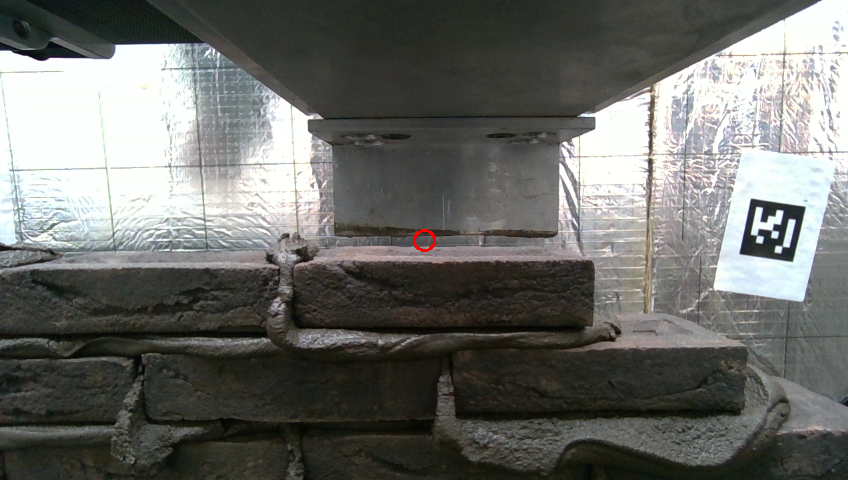
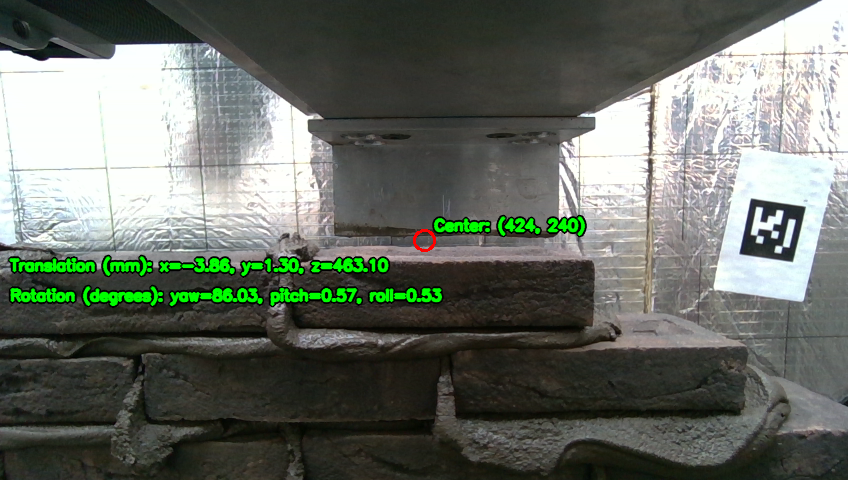
font

Changed region(s): [[0.0, 0.5312, 0.5212, 0.6562], [0.4906, 0.4375, 0.7052, 0.5]]

diff --git a/image_processing/image_processing.py b/image_processing/image_processing.py
@@ -57,7 +57,6 @@ def detect_brick_in_center(depth_image):
     
     print("No suitable contour found.")
     return None, (center_x, center_y)
-
 def draw_brick_boundaries(image, contour, center, translation, rotation):
     # Draw the contour if available
     if contour is not None:
@@ -65,18 +64,22 @@ def draw_brick_boundaries(image, contour, center, translation, rotation):
         x, y, w, h = cv2.boundingRect(contour)
         cv2.rectangle(image, (x, y), (x + w, y + h), (255, 0, 0), 2)
 
-    # Always mark the center and display coordinates
+    # Mark the center and display coordinates
     cv2.circle(image, center, 5, (0, 0, 255), -1)
     center_coords = f"Center: ({center[0]}, {center[1]})"
+    # Draw text with black outline and green fill
     cv2.putText(image, center_coords, (center[0] + 10, center[1] - 10), 
-                cv2.FONT_HERSHEY_SIMPLEX, 0.5, (255, 255, 255), 1, cv2.LINE_AA)
+                cv2.FONT_HERSHEY_SIMPLEX, 0.9, (0, 0, 0), 5, cv2.LINE_AA)
+    cv2.putText(image, center_coords, (center[0] + 10, center[1] - 10), 
+                cv2.FONT_HERSHEY_SIMPLEX, 0.9, (0, 255, 0), 2, cv2.LINE_AA)
 
     # Display 3D Pose Information
     pose_text = (f"Translation (mm): x={translation[0]:.2f}, y={translation[1]:.2f}, z={translation[2]:.2f}\n"
                  f"Rotation (degrees): yaw={rotation['yaw']:.2f}, pitch={rotation['pitch']:.2f}, roll={rotation['roll']:.2f}")
-    y_offset = center[1] + 20
+    y_offset = center[1] + 30
     for i, line in enumerate(pose_text.split('\n')):
-        cv2.putText(image, line, (10, y_offset + i * 20), cv2.FONT_HERSHEY_SIMPLEX, 0.5, (255, 255, 255), 1, cv2.LINE_AA)
+        cv2.putText(image, line, (10, y_offset + i * 30), cv2.FONT_HERSHEY_SIMPLEX, 0.9, (0, 0, 0), 5, cv2.LINE_AA)
+        cv2.putText(image, line, (10, y_offset + i * 30), cv2.FONT_HERSHEY_SIMPLEX, 0.9, (0, 255, 0), 2, cv2.LINE_AA)
 
     print("Drawing completed. Center coordinates:", center_coords)
     print("3D Pose Information:", pose_text)
@@ -162,6 +165,7 @@ def visualize_3d_pose(translation, rotation, save_path):
     plt.title('Estimated 3D Pose Visualization')
     plt.savefig(save_path)
     plt.close()
+# Save the processed image with the updated annotations
 def process_images_and_save_rgbd(folder_path):
     color_image_path = os.path.join(folder_path, 'color.png')
     depth_image_path = os.path.join(folder_path, 'depth.png')
@@ -195,13 +199,16 @@ def process_images_and_save_rgbd(folder_path):
         cv2.circle(processed_image, center, 10, (0, 0, 255), 2)  # Mark center if no contour found
         center_coords = f"Center: ({center[0]}, {center[1]})"
         cv2.putText(processed_image, center_coords, (center[0] + 10, center[1] - 10), 
-                    cv2.FONT_HERSHEY_SIMPLEX, 0.5, (255, 255, 255), 1, cv2.LINE_AA)
+                    cv2.FONT_HERSHEY_SIMPLEX, 0.6, (0, 0, 0), 5, cv2.LINE_AA)
+        cv2.putText(processed_image, center_coords, (center[0] + 10, center[1] - 10), 
+                    cv2.FONT_HERSHEY_SIMPLEX, 0.6, (0, 255, 0), 2, cv2.LINE_AA)
         # Display 3D Pose Information
         pose_text = (f"Translation (mm): x={translation[0]:.2f}, y={translation[1]:.2f}, z={translation[2]:.2f}\n"
                      f"Rotation (degrees): yaw={rotation['yaw']:.2f}, pitch={rotation['pitch']:.2f}, roll={rotation['roll']:.2f}")
-        y_offset = center[1] + 20
+        y_offset = center[1] + 30
         for i, line in enumerate(pose_text.split('\n')):
-            cv2.putText(processed_image, line, (10, y_offset + i * 20), cv2.FONT_HERSHEY_SIMPLEX, 0.5, (255, 255, 255), 1, cv2.LINE_AA)
+            cv2.putText(processed_image, line, (10, y_offset + i * 30), cv2.FONT_HERSHEY_SIMPLEX, 0.6, (0, 0, 0), 5, cv2.LINE_AA)
+            cv2.putText(processed_image, line, (10, y_offset + i * 30), cv2.FONT_HERSHEY_SIMPLEX, 0.6, (0, 255, 0), 2, cv2.LINE_AA)
 
     results_dir = os.path.join(settings.MEDIA_ROOT, 'results')
     os.makedirs(results_dir, exist_ok=True, mode=0o755)
